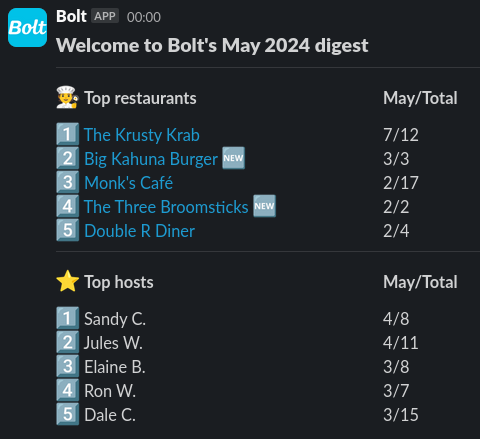
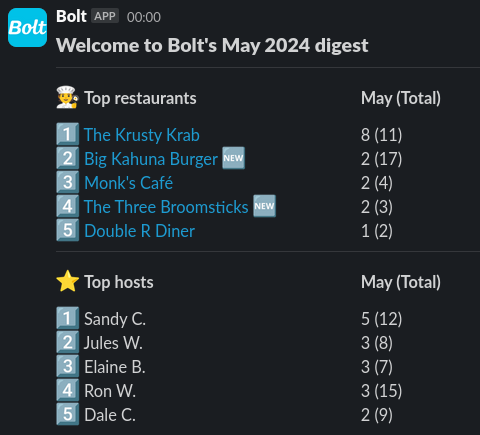
Change digest format

diff --git a/service/digest.go b/service/digest.go
@@ -30,7 +30,7 @@ func buildTopVenuesMessageBlocks(monthlyTopVenues []order.VenueOrderCount, month
 		nil,
 		[]*slack.TextBlockObject{
 			slack.NewTextBlockObject("mrkdwn", ":cook: *Top restaurants*", false, false),
-			slack.NewTextBlockObject("mrkdwn", fmt.Sprintf("*%s/Total*", dateOneMonthAgo.Month().String()), false, false),
+			slack.NewTextBlockObject("mrkdwn", fmt.Sprintf("*%s (Total)*", dateOneMonthAgo.Month().String()), false, false),
 		},
 		nil,
 	)
@@ -53,7 +53,7 @@ func buildTopVenuesMessageBlocks(monthlyTopVenues []order.VenueOrderCount, month
 			leftColumnString += " :new:"
 		}
 
-		rightColumnString := fmt.Sprintf("%d/%d", venue.OrderCount, totalOrderCount)
+		rightColumnString := fmt.Sprintf("%d (%d)", venue.OrderCount, totalOrderCount)
 
 		topVenuesRows = append(topVenuesRows,
 			slack.NewTextBlockObject("mrkdwn", leftColumnString, false, false),
@@ -79,7 +79,7 @@ func buildTopHostsMessageBlocks(monthlyTopHosts []order.HostOrderCount, monthlyT
 		nil,
 		[]*slack.TextBlockObject{
 			slack.NewTextBlockObject("mrkdwn", ":star: *Top hosts*", false, false),
-			slack.NewTextBlockObject("mrkdwn", fmt.Sprintf("*%s/Total*", dateOneMonthAgo.Month().String()), false, false),
+			slack.NewTextBlockObject("mrkdwn", fmt.Sprintf("*%s (Total)*", dateOneMonthAgo.Month().String()), false, false),
 		},
 		nil,
 	)
@@ -101,7 +101,7 @@ func buildTopHostsMessageBlocks(monthlyTopHosts []order.HostOrderCount, monthlyT
 			leftColumnString += " :new:"
 		}
 
-		rightColumnString := fmt.Sprintf("%d/%d", host.OrderCount, totalOrderCount)
+		rightColumnString := fmt.Sprintf("%d (%d)", host.OrderCount, totalOrderCount)
 
 		topHostsRows = append(topHostsRows,
 			slack.NewTextBlockObject("mrkdwn", leftColumnString, false, false),
